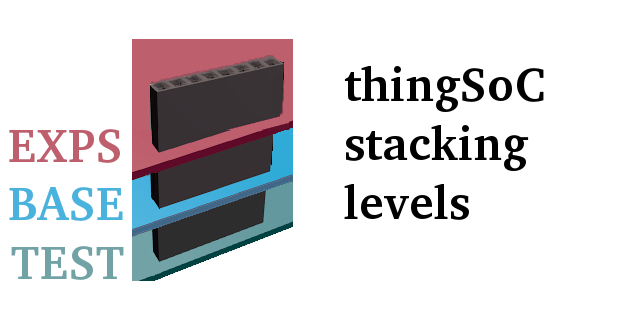
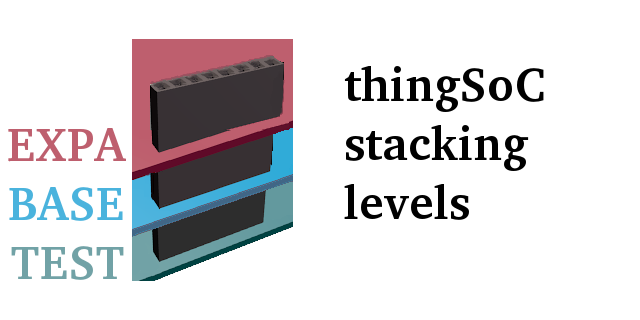
site rebuild

Changed region(s): [[0.0, 0.4062, 0.2188, 0.5312]]

diff --git a/support/faq.html b/support/faq.html
@@ -190,14 +190,14 @@ automatic device configuration, self-monitoring, and self-testing.</li>
      <img src="/img/projects/thingSoC/thingSoC-levels.png"alt="thingSoC levels" title="thingSoC levels">
    </p>     
       <ul>
-        <li><b>EXPS</b> - Expansion levels<br>
-         Any layer above the base level is refered to as an "EXPS" level module.
-         "EXPS" level modules use either "stack-thru" female header connectors, or surface mount (SMD)
+        <li><b>EXPA</b> - EXPAnsion levels<br>
+         Any layer above the base level is refered to as an "EXPA", or EXPAansion level module.
+         "EXPA" level modules use either "stack-thru" female header connectors, or surface mount (SMD)
          female headers on the top side of the board and surface mount (SMD) male pins on the 
          bottom side of the board.
-         The majority of thingSoC modules are "EXPS" level modules.
-         A maximum of four (4) "EXPS" level modules can function in any thingSoC "BASE" socket 
-         (i.e. maximum stack height of four (4) "EXPS" level modules in any single thingSoC Socket).
+         The majority of thingSoC modules are "EXPA" level modules.
+         A maximum of four (4) "EXPA" level modules can function in any thingSoC "BASE" socket 
+         (i.e. maximum stack height of four (4) "EXPA" level modules in any single thingSoC Socket).
          </li>
         <li><b>BASE</b> - Base Level<br>
          There will be only one "BASE" level per thingSoC socket stack, 
@@ -215,7 +215,7 @@ automatic device configuration, self-monitoring, and self-testing.</li>
          <li><b>TEST</b> - Test Levels<br>
          Any layer below the "BASE" layer is refered to as an "TEST" level module.
          "TEST" modules implement test, measurement, and monitoring functions for the thingSoC "BASE" socket, 
-         and any attached "EXPS" levels.
+         and any attached "EXPA" levels.
          The "TEST" level modules can include JTAG programming, debugging, and trace functionality.
          Oscilloscopes, Logic Analyzers, Protocol Analyzers, Emulators, and similar functions as implemented
          as "TEST" level modules in the thingSoC standard. 
